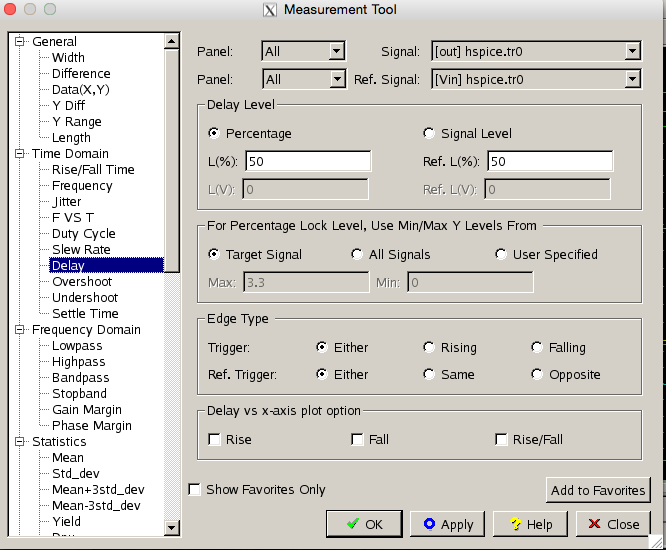
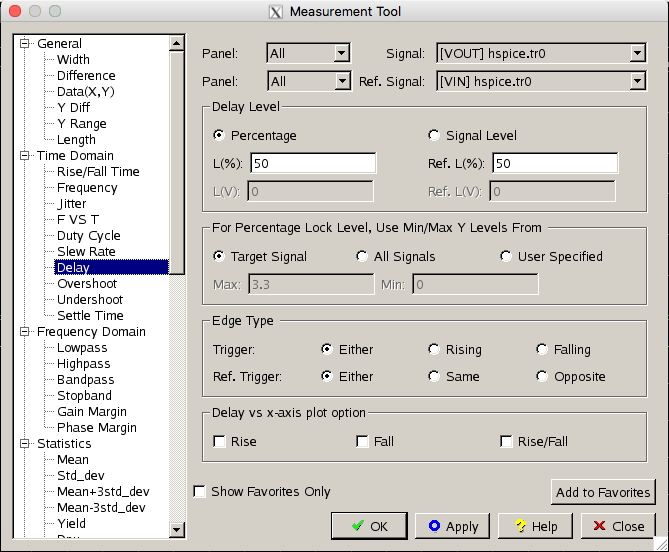
revised

Changed region(s): [[0.0, 0.0, 1.0, 1.0]]

diff --git a/lab1/README.md b/lab1/README.md
@@ -105,14 +105,14 @@ _**Fig. 7. Adding instance for p-mos and n-mos**_
 
 After placing the p-mos and n-mos transistors, the schematic should look like figure 8 below.
 
-![Placing p-mos and n-mos](images/fig8_1.png)
+![Placing p-mos and n-mos](images/fig8.png)
 
 _**Fig. 8. Placing p-mos and n-mos**_
 
 
 After you place, you need to add wires to the schematic as seen in Fig 9. Go to Add -> Wire in the menu of the schematic editor and draw wire with your mouse and you need to press `ESC` key to escape the selected mode.
 
-![Add wires](images/fig9_1.png)
+![Add wires](images/fig9.png)
 
 _**Fig. 9. Add wires**_
 
@@ -131,17 +131,17 @@ See Fig. 11 and Fig. 12 for reference on how to add pins.
 Afterward, your circuit should look similar to figure 13 below after you add the pins. As a general convention, use uppercase letters for naming pins instead of lowercase letters.
 
 
-![fig11_1](images/fig11_1.png)
+![fig11](images/fig11.png)
 
 _**Fig. 11. Adding pins**_
 
 
-![fig12_1](images/fig12_1.png)
+![fig12](images/fig12_1.png)
 
 _**Fig. 12. Adding pins**_
 
 
-![fig13_1](images/fig13_1.png)
+![fig13](images/fig13.png)
 
 _**Fig. 13. Complete Schematic with pins**_
 
@@ -158,7 +158,7 @@ _**Fig. 14. Cellview generation from cellview**_
 
 Now we have a transistor level model of an inverter (symbol). See Fig. 15 for reference.
 
-![fig15_1](images/fig15_1.png)
+![fig15](images/fig15.png)
 
 _**Fig. 15. Design symbol for inverter**_
 
@@ -172,20 +172,20 @@ _**Fig. 16. New CellView Creation**_
 
 Now that you have a new schematic window, go to Add -> Instance. In the add instance window, select “mylibrary” as the library, “inverter” as the cell, and “symbol” for the view to select the inverter you just made and place it on the schematic. See Fig. 17 for reference. Also in the add instance window, select “analogLib” for the library and choose: vsource, vpulse and gnd for the cell while placing the part for each selection on the schematic.
 
-![fig17_1](images/fig17_1.png)
+![fig17](images/fig17.png)
 
 _**Fig. 17. Drawing an Instance of an Inverter**_
 
 Now add wires to the circuit using Add -> Wire and use Add -> Pin to add an output pin on the VOUT signal of the inverter so the schematic looks like figure 18 below. Don’t worry if your values for vpulse and vsource don’t match up with figure 18 since we will be modifying them next.
 
-![fig18_1](images/fig18_1.png)
+![fig18](images/fig18.png)
 
 _**Fig. 18. Testbench for Inverter**_
 
 By clicking on property editor icon and selecting a component in schematic view, you can edit a component's property. You can also use Edit -> Properties -> Property Editor to edit the properties of the parts. Select vpulse and modify its properties as shown in Fig.19. Select vsource and modify its properties as shown in Fig.19.
 
-![fig19](images/fig19_1.png)
-![fig19](images/fig19_2.png)
+![fig19](images/fig19_a.png)
+![fig19](images/fig19_b.png)
 
 _**Fig. 19. Property editor**_
 
@@ -235,13 +235,13 @@ The following step is to choose the desired simulations results and select the n
 
 To setup the circuit output voltage:
 
-1. Click under the output field, and write “Vout” or a name for an output variable of the inverter.
+1. Click under the output field, and write “VOUT” or a name for an output variable of the inverter.
 1. Click under the expression column and choose the output node from the schematic. In this case, click on pointer icon and select the wire labeled “VOUT” as shown below in Fig. 24 in the schematic window. You can also write an equation that uses the values of some nodes in that schematic.
 1. Under analysis, select the type of analysis you want to run. In this case, select `dc` and `tran` to run the transient and DC analysis for this variable.
 
 
 To setup the circuit input voltage:
-1. Click under the output field in a new row, and write “Vin” or a name for an input variable of the inverter.
+1. Click under the output field in a new row, and write “VIN” or a name for an input variable of the inverter.
 1. In the same row, click under the expression column and choose the input node from the schematic. In this case, click on pointer icon and select the wire labeled “VIN” as shown below in figure 24 in the schematic window.
 1. Under analysis, select the type of analysis you want to run. In this case, select `dc` and `tran` to run the transient and DC analysis for this variable.
 
@@ -256,12 +256,12 @@ Afterward, the SAE window should look something similar to figure 25 below. Note
 
 
 
-![fig24_1](images/fig24_1.png)
+![fig24](images/fig24.png)
 
 _**Fig. 24. Schematic Windows**_
 
 
-![fig25_1](images/fig25_1.png)
+![fig25](images/fig25.png)
 
 _**Fig. 25. Updated SAE Window**_
 
@@ -320,22 +320,22 @@ _**Fig. 31. Grouping Waveforms**_
 
 To group the waveforms in Waveview together, select the names of the signals to be grouped in the signals list and hold down `Ctrl` for each additional signal to add. Once you have all the signals you want to group selected, right click on the mouse and select `Group` from the dropdown menu to group the selected waveforms.
 
-Delay Measurements of Vin and Vout at 50% to 50%:
+Delay Measurements of VIN and VOUT at 50% to 50%:
 
-To measure delay between the input and output signals of the inverter at 50% select `tran` tab in the bottom left hand corner of the WaveView window. Group the Vout and Vin waveforms together so the two waves overlap each other (see figure 31 on how to group signals). Open the measurement tool by going to Tools -> Measurement… or by clicking ruler icon in the WaveView window. Click the All tab in the measurement tool window and fill out the options as shown below in figure 32. Click Ok when done.
+To measure delay between the input and output signals of the inverter at 50% select `tran` tab in the bottom left hand corner of the WaveView window. Group the VOUT and VIN waveforms together so the two waves overlap each other (see figure 31 on how to group signals). Open the measurement tool by going to Tools -> Measurement… or by clicking ruler icon in the WaveView window. Click the All tab in the measurement tool window and fill out the options as shown below in figure 32. Click Ok when done.
 
 ![fig32](images/fig32.png)
 
 _**Fig. 32. Delay Analysis**_
 
-After clicking Ok, a delay measurement box will appear on the waveform. Just drag the box to the waveform you want to measure (in this case the Vin and Vout overlapping waveforms) and the delay value will appear in the box. You can also drag the delay measurement box along different valid points of the waveform to get more delay values. See Fig. 33 below for the delay measurements box.
+After clicking Ok, a delay measurement box will appear on the waveform. Just drag the box to the waveform you want to measure (in this case the VIN and VOUT overlapping waveforms) and the delay value will appear in the box. You can also drag the delay measurement box along different valid points of the waveform to get more delay values. See Fig. 33 below for the delay measurements box.
 
 ![fig33](images/fig33.png)
 
 _**Fig. 33. Delay Waveform Measurement**_
 
 
-Rise/Fall Time Measurements at 90% and 10% for Vout:
+Rise/Fall Time Measurements at 90% and 10% for VOUT:
 
 To measure fall and rise time, select the `tran` tab in the bottom left-hand corner of the WaveView window and ungroup all the waveforms as described in figure 30. Open the measurement tool by going to Tools -> Measurement… or by clicking ruler icon in the WaveView window. Click the All tab in the measurement tool window and fill out the options as shown below in Fig. 34. Click Ok when done.
 
@@ -344,7 +344,7 @@ To measure fall and rise time, select the `tran` tab in the bottom left-hand cor
 _**Fig. 34. Rise/Fall Measurement Tool**_
 
 
-After clicking Ok, a rise/fall measurement box will appear on the waveform. You can drag the rise/fall measurement box along the Vout waveform to get the rising and falling delay times. Notice that when the rise/fall measurement box shows a rising red curve the tool is measuring rising delay time from 10% of the signal to 90% of the signal. Also when the rise/fall measurement box shows a falling green curve the tool is measuring the falling delay time from 90% of the signal to 10% of the signal. See figure 35 for reference, it shows two measurement boxes and zooms in on Vout.
+After clicking Ok, a rise/fall measurement box will appear on the waveform. You can drag the rise/fall measurement box along the VOUT waveform to get the rising and falling delay times. Notice that when the rise/fall measurement box shows a rising red curve the tool is measuring rising delay time from 10% of the signal to 90% of the signal. Also when the rise/fall measurement box shows a falling green curve the tool is measuring the falling delay time from 90% of the signal to 10% of the signal. See figure 35 for reference, it shows two measurement boxes and zooms in on VOUT.
 
 ![fig35](images/fig35.png)
 
@@ -353,7 +353,7 @@ _**Fig. 35. Rise/Fall Waveform measurement**_
 
 Average Current Measurement:
 
-To measure average current, select the `tran` tab in the bottom left-hand corner of the WaveView window and ungroup all the waveforms as described in figure 30. Delete the Vout and Vin waveforms so only the isupply waveform shows. You can delete a waveform by selecting its name in the signal list on the left side of the WaveView window and pressing delete on the keyboard and clicking ok. You can always recover these signals later by clicking Plot on the SAE window.
+To measure average current, select the `tran` tab in the bottom left-hand corner of the WaveView window and ungroup all the waveforms as described in figure 30. Delete the VOUT and VIN waveforms so only the isupply waveform shows. You can delete a waveform by selecting its name in the signal list on the left side of the WaveView window and pressing delete on the keyboard and clicking ok. You can always recover these signals later by clicking Plot on the SAE window.
 
 Open the measurement tool by going to Tools -> Measurement… or by clicking ruler icon in the WaveView window. Scroll down in the menu window on the left and then click on the Average measurement within the Level submenu as shown in Fig. 36. Click Ok when done.
 
